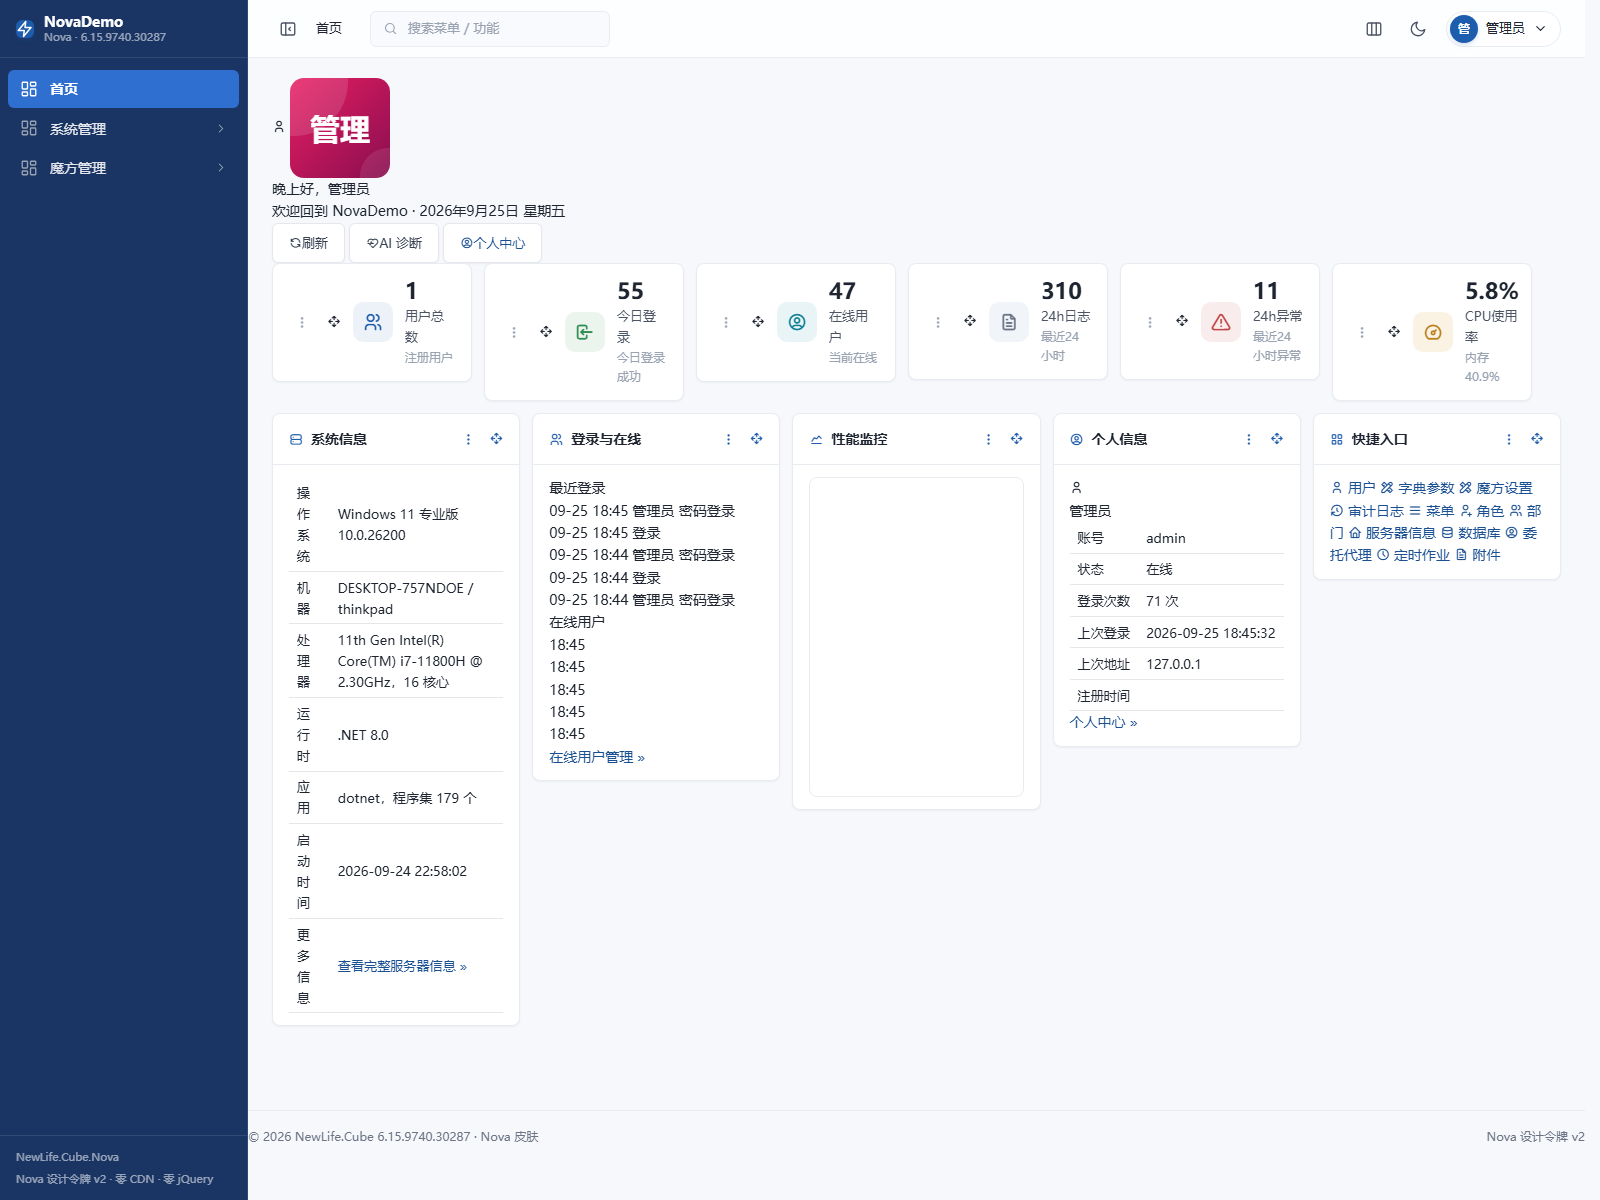
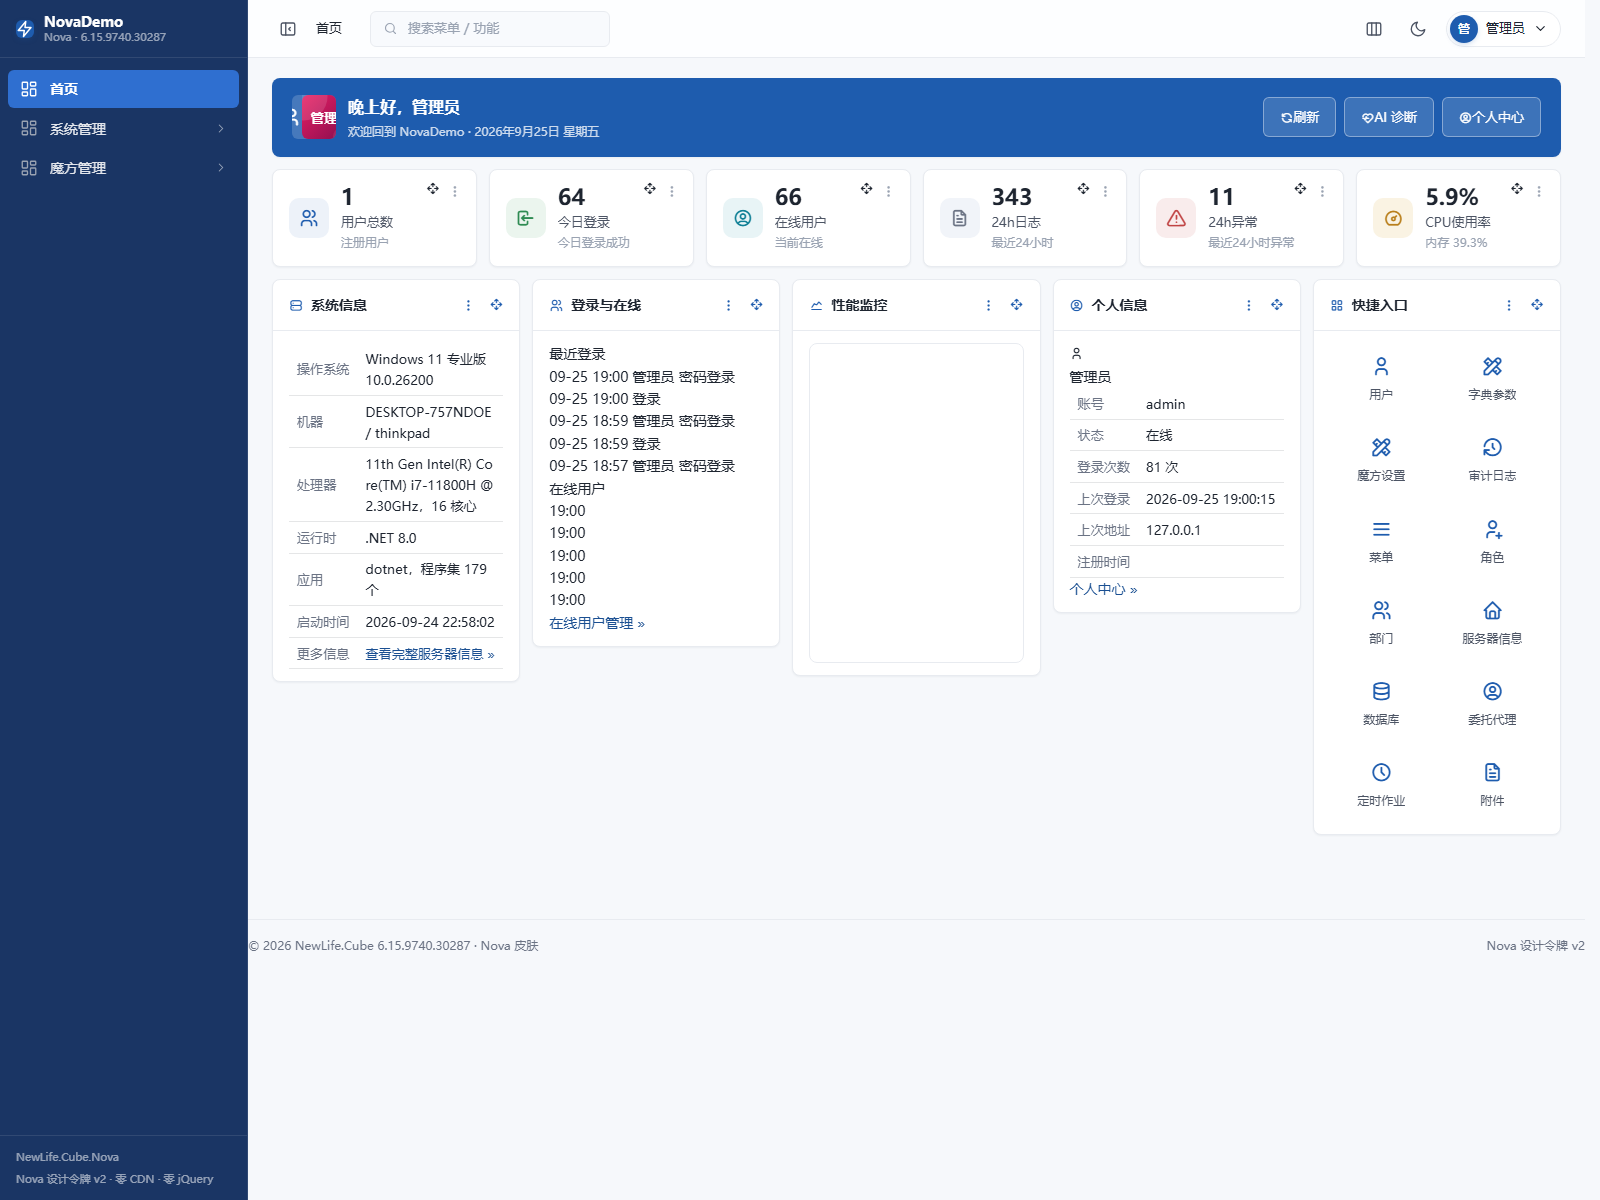
Dashboard 工作台自适应优化并对齐 ACE 基准
- 工作台 widget 栅格响应式：KPI 卡忽略服务端保存的固定百分比宽、
  flex 不收缩（180px 基准自适应换行），信息卡按 1280/900/560 断点重排
- KPI 卡操作柄绝对定位于右上角，不再挤占图标/数值内容区；
  数值/标签 nowrap+省略号，标签不再折行
- 修复 widget 行等高拉伸导致 KPI 卡被撑成 470px 的问题（保持自然高度）
- 系统信息等 widget-table 标签列（td.w-name）nowrap，修复逐字竖排
- 对齐 ACE 工作台基准：欢迎横幅通栏主色白字+反白按钮；
  快捷入口改图标网格（图标在上文字在下，auto-fill minmax 88px）
- 规范附录C 增补 Dashboard 三档宽度基线截图
- 回归 verify-demo.ps1 35 项全部 PASS

diff --git a/wwwroot/Content/nova/nova-ui.css b/wwwroot/Content/nova/nova-ui.css
@@ -2478,11 +2478,17 @@ body.nv .form-actions .btn-danger:hover, body.nv .form-actions .btn-danger:focus
    这里按 Nova 卡片体系补最小样式，保证生产交付观感统一。 */
 .widget-grid { display:flex; flex-wrap:wrap; gap:var(--nv-sp-3); margin:0 0 var(--nv-sp-3); }
 .widget-col { flex:1 1 220px; min-width:0; }
-.widget-col-kpi { flex:0 1 200px; }
+/* KPI 卡忽略服务端保存的固定百分比宽，按内容自适应换行（响应式基准）；
+   flex-shrink 置 0，避免被同行的信息卡压缩、也不被拉伸成等高 */
+.widget-col-kpi { flex:1 0 180px; width:auto !important; }
 .widget-kpi {
  position:relative; display:flex; align-items:center; gap:12px;
  background:var(--nv-surface); border:1px solid var(--nv-border); border-radius:var(--nv-r-md);
  padding:14px 16px; box-shadow:var(--nv-sh-1); }
+/* 操作柄绝对定位于卡片右上角，不挤占图标/数值内容区 */
+.widget-kpi .widget-menu-wrap { position:absolute; top:8px; right:8px; margin-left:0; }
+.widget-kpi .widget-drag { position:absolute; top:8px; right:36px; }
+.widget-kpi-info { min-width:0; flex:1 1 auto; }
 .widget-kpi-icon {
  width:40px; height:40px; flex:0 0 40px; display:flex; align-items:center; justify-content:center;
  border-radius:10px; font-size:20px; }
@@ -2492,8 +2498,8 @@ body.nv .form-actions .btn-danger:hover, body.nv .form-actions .btn-danger:focus
 .widget-kpi-icon.k-orange, .widget-kpi-icon.k-o { background:var(--nv-warning-weak); color:var(--nv-warning); }
 .widget-kpi-icon.k-red { background:var(--nv-danger-weak); color:var(--nv-danger); }
 .widget-kpi-icon.k-grey { background:var(--nv-surface-3); color:var(--nv-text-3); }
-.widget-kpi-value { font-size:22px; font-weight:var(--nv-fw-bold,700); line-height:1.2; color:var(--nv-text); }
-.widget-kpi-label { font-size:var(--nv-fs-13); color:var(--nv-text-2); margin-top:2px; }
+.widget-kpi-value { font-size:22px; font-weight:var(--nv-fw-bold,700); line-height:1.2; color:var(--nv-text); white-space:nowrap; }
+.widget-kpi-label { font-size:var(--nv-fs-13); color:var(--nv-text-2); margin-top:2px; white-space:nowrap; overflow:hidden; text-overflow:ellipsis; }
 .widget-kpi-trend { font-size:var(--nv-fs-12); color:var(--nv-text-4); }
 .widget-kpi-link { position:absolute; inset:0; }
 .widget-card {
@@ -2517,6 +2523,54 @@ body.nv .form-actions .btn-danger:hover, body.nv .form-actions .btn-danger:focus
  font-size:var(--nv-fs-13); color:var(--nv-text-2); text-decoration:none; white-space:nowrap; }
 .widget-menu-drop a:hover { background:var(--nv-surface-hover); color:var(--nv-primary); }
 .widget-menu-wrap { position:relative; margin-left:auto; }
+
+/* 工作台响应式（2026-09-25 自适应优化）：窄屏忽略服务端保存的列宽，按断点重排 */
+@media (max-width:1280px) {
+ .widget-grid > .widget-col:not(.widget-col-kpi) { width:auto !important; flex:1 1 calc(33.333% - var(--nv-sp-3)); }
+}
+@media (max-width:900px) {
+ .widget-grid > .widget-col:not(.widget-col-kpi) { flex:1 1 calc(50% - var(--nv-sp-3)); }
+ .cube-workbench .wb-banner { flex-direction:column; align-items:flex-start; gap:var(--nv-sp-3); }
+ .cube-workbench .wb-banner-right { flex-wrap:wrap; }
+}
+@media (max-width:560px) {
+ .widget-grid > .widget-col { width:auto !important; flex:1 1 100%; }
+}
+/* 工作台信息表（系统信息等）：标签列nowrap，值列允许断行，防止标签逐字竖排 */
+.cube-workbench .widget-table .w-name {
+ white-space:nowrap; width:1%; font-weight:var(--nv-fw-normal); color:var(--nv-text-3); }
+.cube-workbench .widget-table .w-value { word-break:break-all; }
+
+/* 欢迎横幅：通栏主色、白字（2026-09-25 对齐 ACE 工作台基准） */
+.cube-workbench .wb-banner {
+ display:flex; align-items:center; justify-content:space-between; gap:var(--nv-sp-3);
+ background:var(--nv-primary); border-radius:var(--nv-r-md); color:#fff;
+ padding:var(--nv-sp-4) var(--nv-sp-5); margin:0 0 var(--nv-sp-3); box-shadow:var(--nv-sh-1); flex-wrap:wrap; }
+.cube-workbench .wb-banner-left { display:flex; align-items:center; gap:var(--nv-sp-3); min-width:0; }
+.cube-workbench .wb-banner-avatar {
+ width:44px; height:44px; flex:0 0 44px; border-radius:var(--nv-r-sm); overflow:hidden;
+ background:rgba(255,255,255,.18); color:#fff; font-size:20px;
+ display:flex; align-items:center; justify-content:center; }
+.cube-workbench .wb-banner-avatar img { width:100%; height:100%; object-fit:cover; }
+.cube-workbench .wb-banner-greet { font-size:var(--nv-fs-16); font-weight:var(--nv-fw-semi); color:#fff; }
+.cube-workbench .wb-banner-sub { font-size:var(--nv-fs-12); color:rgba(255,255,255,.78); margin-top:2px; }
+.cube-workbench .wb-banner-right { display:flex; gap:var(--nv-sp-2); flex-wrap:wrap; }
+.cube-workbench .wb-banner-right .btn {
+ background:rgba(255,255,255,.14); border:1px solid rgba(255,255,255,.38); color:#fff;
+ border-radius:var(--nv-r-sm); }
+.cube-workbench .wb-banner-right .btn:hover { background:rgba(255,255,255,.26); color:#fff; }
+
+/* 快捷入口：图标网格，图标在上文字在下（对齐 ACE 工作台基准） */
+.cube-workbench .widget-quicklinks {
+ display:grid; grid-template-columns:repeat(auto-fill,minmax(88px,1fr)); gap:var(--nv-sp-2); }
+.cube-workbench .quicklink-item {
+ display:flex; flex-direction:column; align-items:center; justify-content:center; gap:8px;
+ padding:var(--nv-sp-3) var(--nv-sp-2); border-radius:var(--nv-r-sm);
+ color:var(--nv-text-2); text-decoration:none; text-align:center; }
+.cube-workbench .quicklink-item:hover { background:var(--nv-primary-wash); color:var(--nv-primary); }
+.cube-workbench .quicklink-item i { font-size:22px; color:var(--nv-primary); }
+.cube-workbench .quicklink-item span {
+ font-size:var(--nv-fs-12); max-width:100%; white-space:nowrap; overflow:hidden; text-overflow:ellipsis; }
 
 /* ============================================================ 下拉筛选与多选下拉（2026-09-25）
    单选下拉（nv-selectpop）面板顶部筛选框；多选下拉（nv-multipop）= 筛选 + 全选/清空 + 勾选列表。 */

diff --git a/docs/Nova界面设计规范.md b/docs/Nova界面设计规范.md
@@ -350,5 +350,8 @@
 | 用户编辑表单（下拉多选/部门选择/省市联动） | 5.3 / 5.7 | [runtime-userform](preview/runtime-userform.png) |
 | 角色编辑表单（权限树） | 5.3 | [runtime-roleform](preview/runtime-roleform.png) |
 | 日志列表（ACE 遗留视图覆写样例） | 8 | [runtime-log](preview/runtime-log.png) |
+| 工作台 Dashboard（桌面 1700） | 6.1 | [runtime-dash-desktop](preview/runtime-dash-desktop.png) |
+| 工作台 Dashboard（平板 1100） | 6.4 | [runtime-dash-tablet](preview/runtime-dash-tablet.png) |
+| 工作台 Dashboard（手机 560） | 6.4 | [runtime-dash-mobile](preview/runtime-dash-mobile.png) |
 
 复摄说明：`docs/preview/verify-demo.ps1` 内嵌全部检查项并在通过时刷新对应基线截图；单独复摄某组件时参照同目录已归档的 `_*shot*.ps1` 脚本模式（起站 → 登录 → 快照 → 停站），注意脚本需以 UTF-8 带 BOM 保存。
